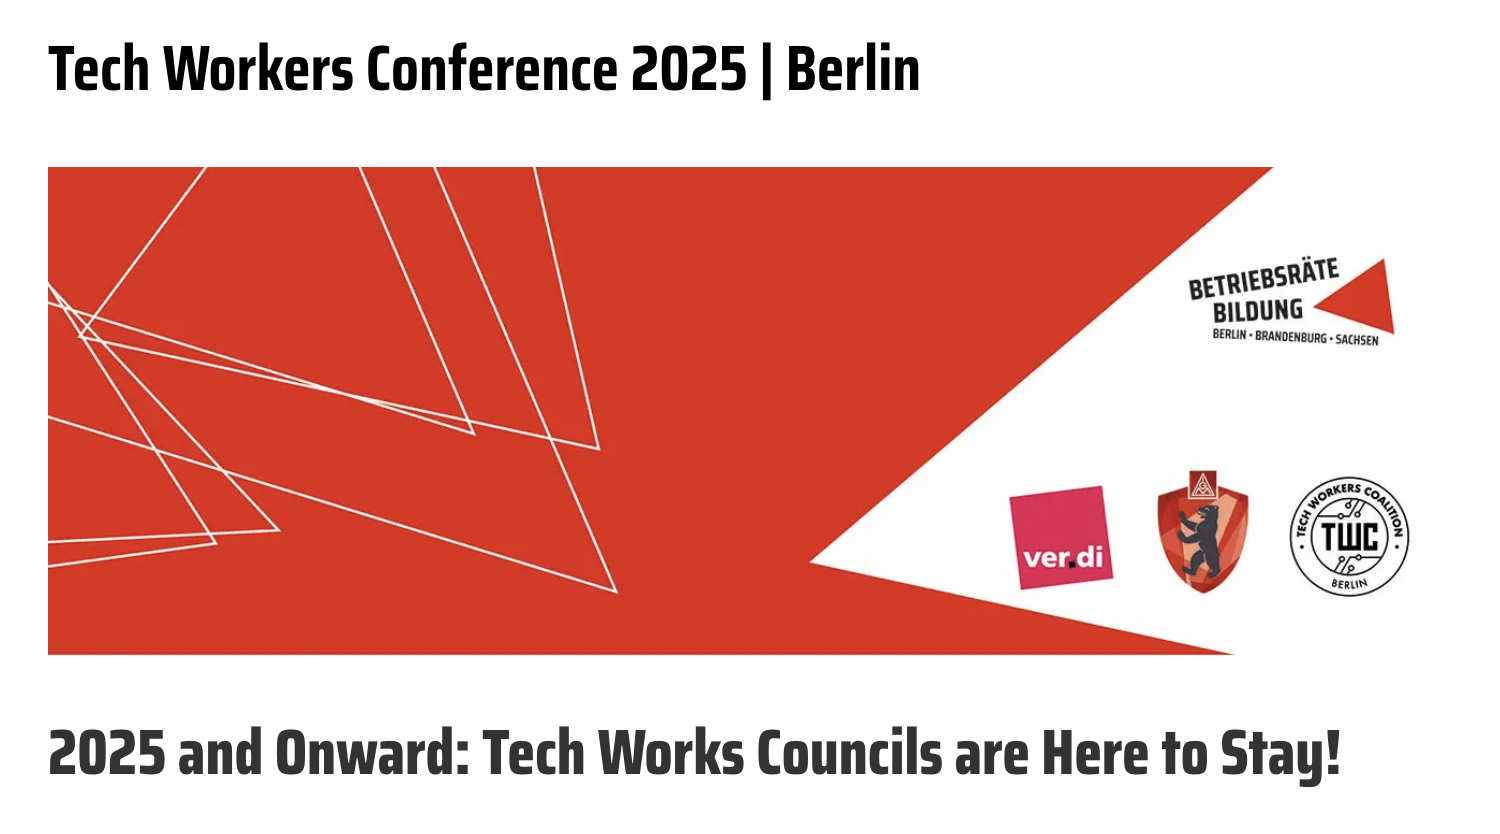
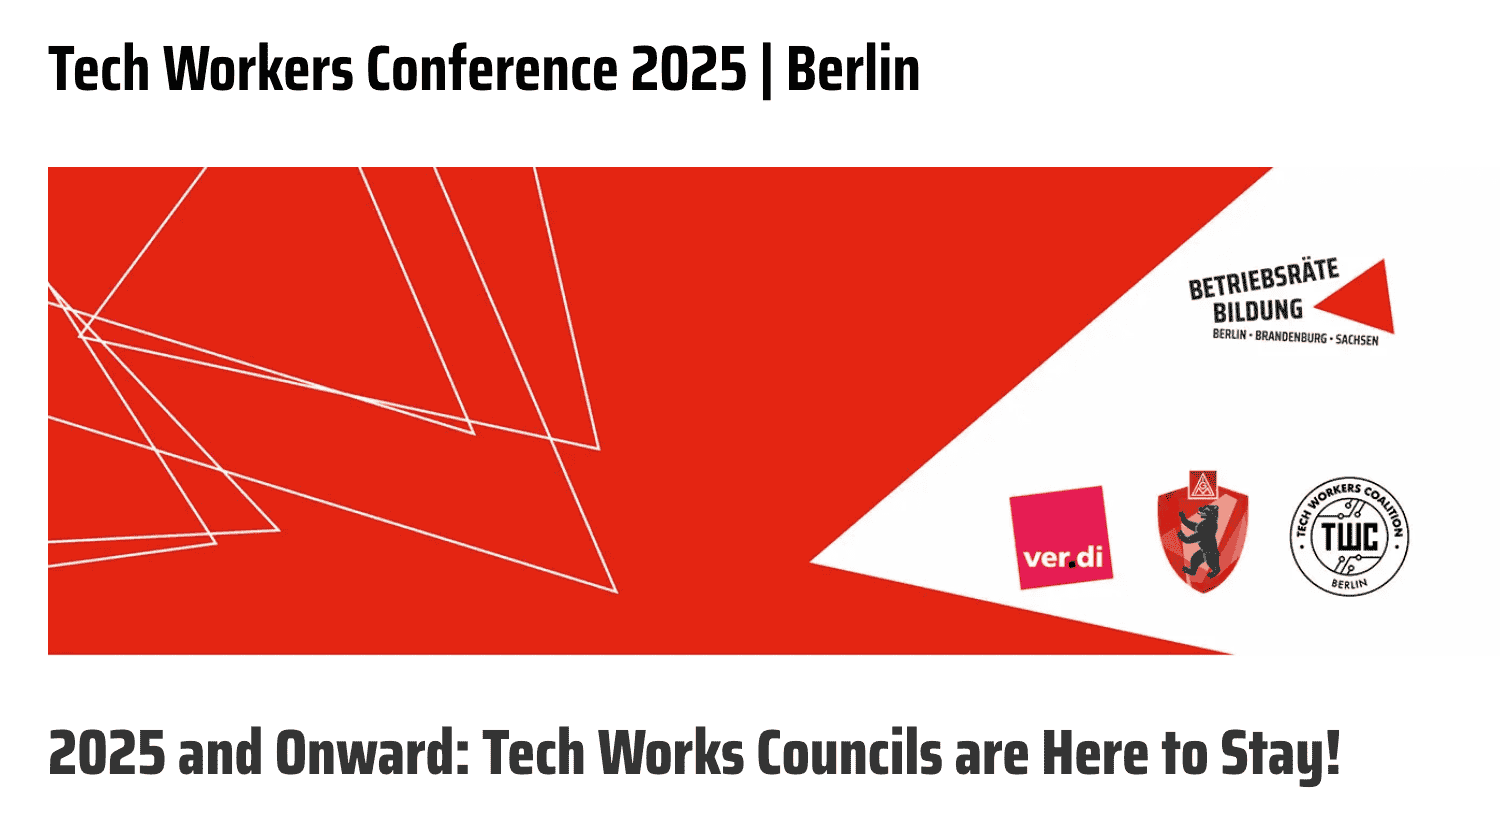
Add flyer to booking event (#82)
This change adds a flyer to the Booking info sessions. In addition:
* It adds a description to those events. `description` is currently
missing from our events template, but it's needed for meta info in the
page `head`, to help with SEO 🙃 Just added it for these two events for
now, but let's add this an all pages going forward.
* Also shrinks the file size of another events image, just to help keep
pages load fast.

---------

diff --git a/content/events/2025-04-23/index.nl.md b/content/events/2025-04-23/index.nl.md
@@ -2,6 +2,7 @@
 title: "Booking.com layoffs infosessie #1"
 date: 2025-04-23T19:00:00+02:00
 location: "Online"
+description: "Een online infosessie voor Booking.com-medewerkers over organiseren tegen massa-ontslagen"
 organisation: ""
 tags: ["organizeren"]
 layout: "single-event"

diff --git a/content/events/2025-04-23/index.en.md b/content/events/2025-04-23/index.en.md
@@ -2,6 +2,7 @@
 title: "Booking.com layoffs info session #1"
 date: 2025-04-23T19:00:00+02:00
 location: "Online"
+description: "An online info session for Booking.com workers about organizing against layoffs"
 organisation: ""
 tags: ["organizing"]
 layout: "single-event"

diff --git a/content/events/2025-04-25/index.nl.md b/content/events/2025-04-25/index.nl.md
@@ -1,6 +1,7 @@
 ---
 title: "Booking.com layoffs infosessie #2"
 date: 2025-04-25T13:00:00+02:00
+description: "Een online infosessie voor Booking.com-medewerkers over organiseren tegen massa-ontslagen"
 location: "Online"
 organisation: ""
 tags: ["organizeren"]

diff --git a/content/events/2025-04-25/index.en.md b/content/events/2025-04-25/index.en.md
@@ -1,6 +1,7 @@
 ---
 title: "Booking.com layoffs info session #2"
 date: 2025-04-25T13:00:00+02:00
+description: "An online info session for Booking.com workers about organizing against layoffs"
 location: "Online"
 organisation: ""
 tags: ["organizing"]
